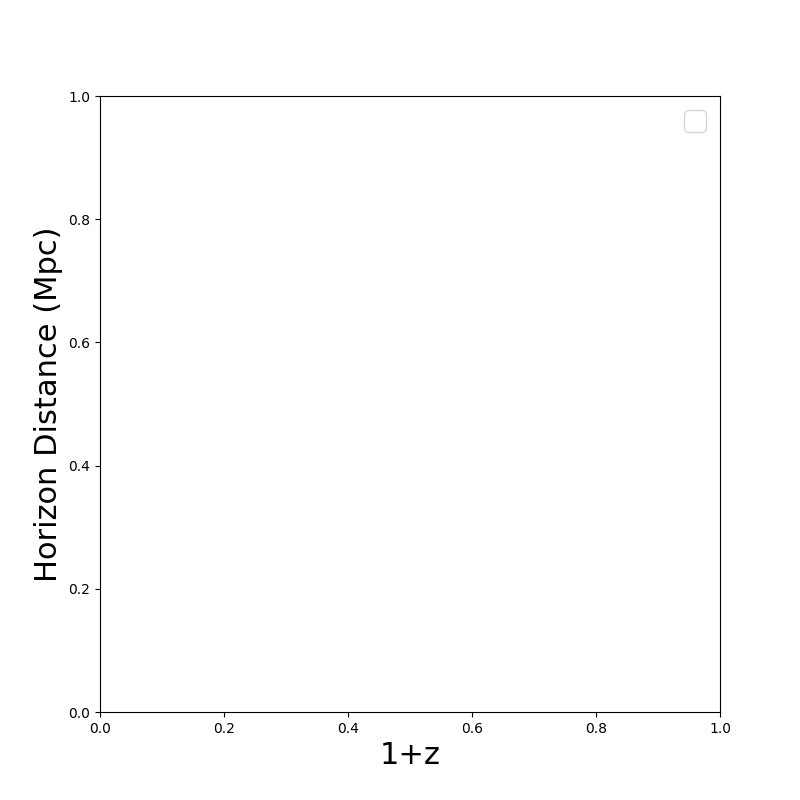
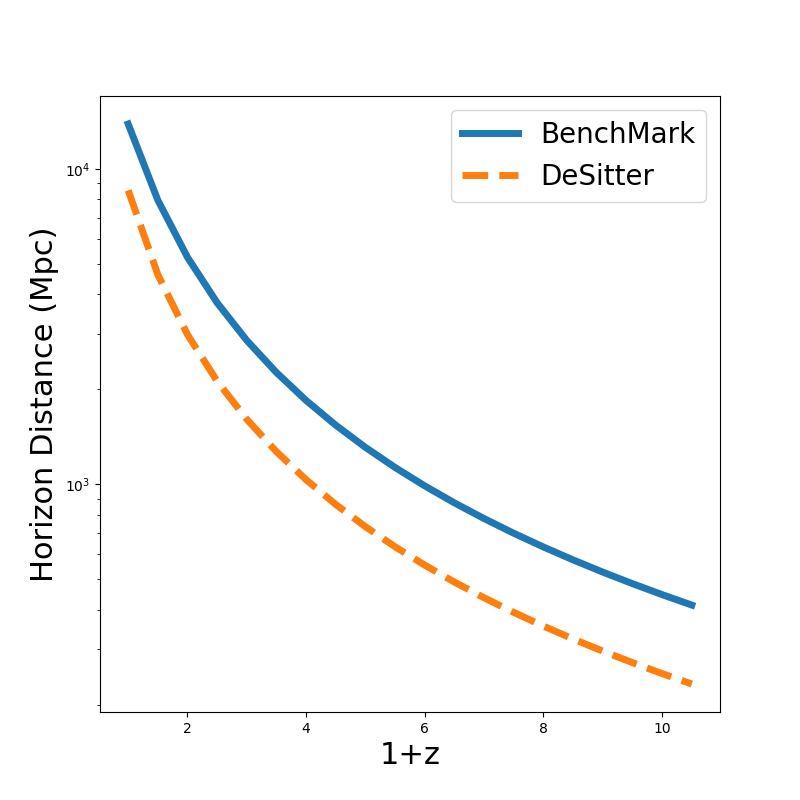
Lab 11 Submission

diff --git a/labs/lab11/Lab11.py b/labs/lab11/Lab11.py
@@ -698,7 +698,8 @@ if __name__ == '__main__':
 
     # What is the size of the universe at each redshit in each cosmology
     # We need to again use a list comprehension 
-
+    Horizon = [benchmark.ProperDistance(i, 1e3).value for i in zrange2]
+    Horizon2 = [benchmark2.ProperDistance(i, 1e3).value for i in zrange2]
 
 
 
@@ -711,9 +712,9 @@ if __name__ == '__main__':
 
     # Comoving Distance
     # FILL THIS IN
-    #plt.semilogy(###, ### , linewidth=5, label='BenchMark')
+    plt.semilogy(zrange2 + 1, Horizon , linewidth=5, label='BenchMark')
 
-    #plt.semilogy(### , ###  , linewidth=5, linestyle='--', label='DeSitter')
+    plt.semilogy(zrange2 + 1 , Horizon2  , linewidth=5, linestyle='--', label='DeSitter')
 
 
     # Add axis labels
